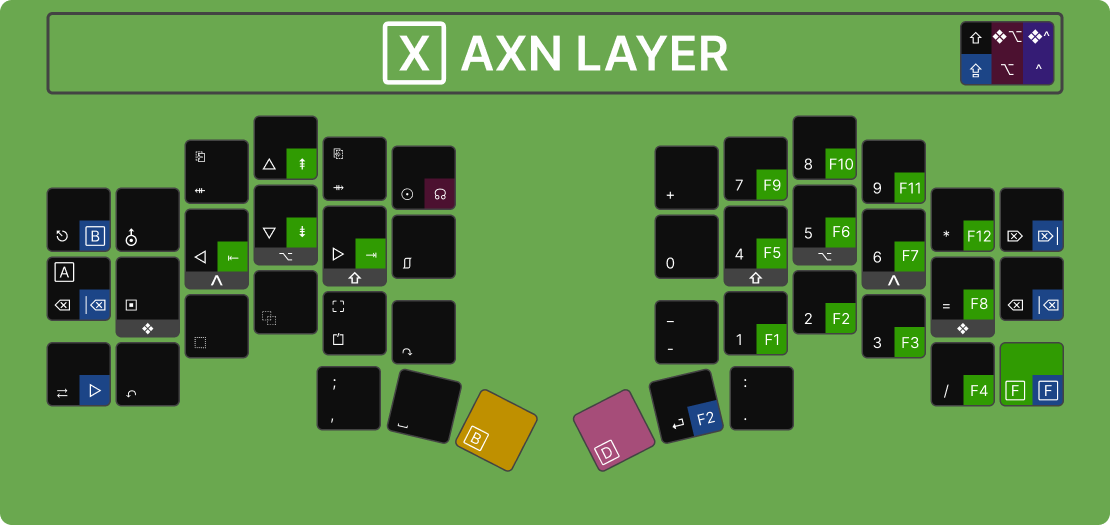
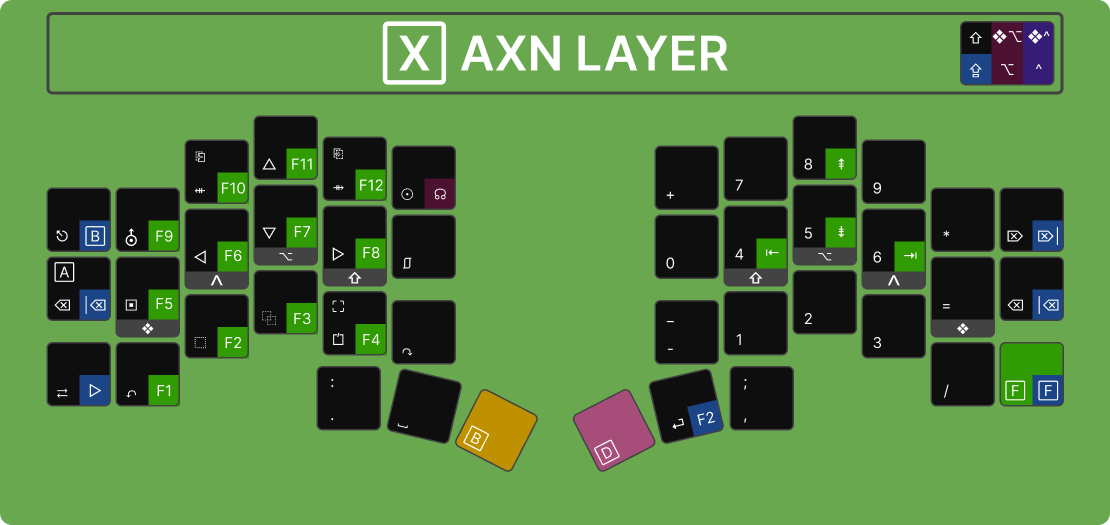
move FN keys to left

diff --git a/CHANGELOG.md b/CHANGELOG.md
@@ -1,5 +1,10 @@
 # CHANGELOG
 
+## 6.0.0
+
+- Move Function keys to Left half to use the mouse withe Right hand while debugging
+- Add shift to `STG` button layer to prevent accidental activation
+
 ## 5.6.0
 
 - Update layer icons replacing emoji icons for Unicode letters
